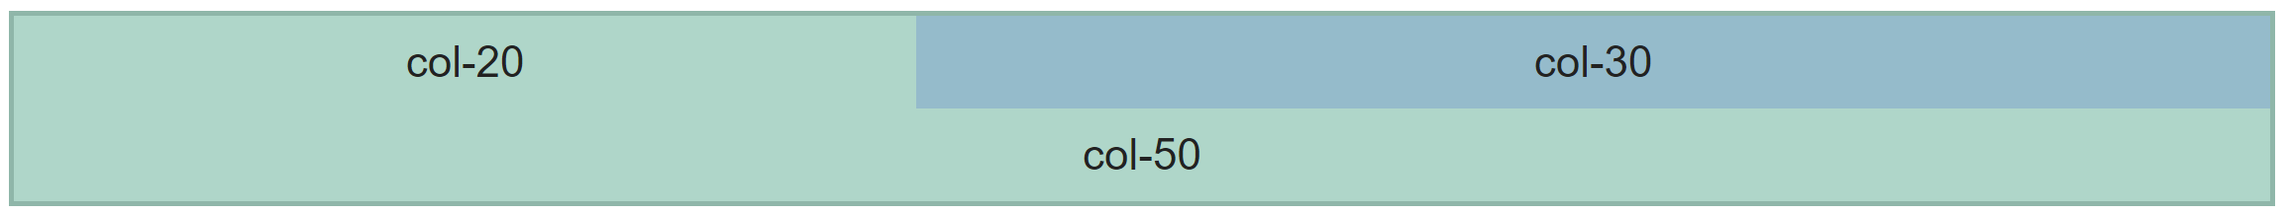
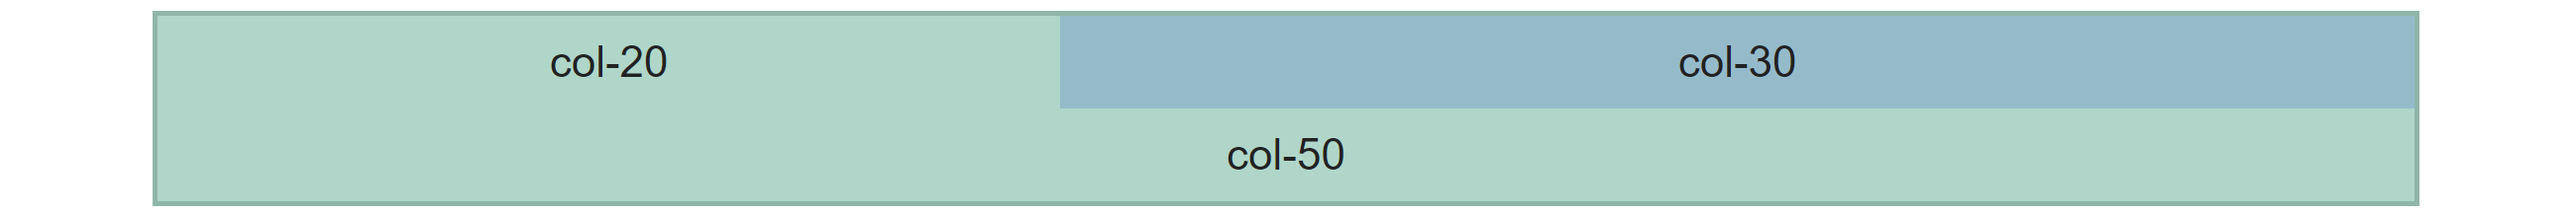
adjust size of demo images and updated readme

diff --git a/README.md b/README.md
@@ -2,12 +2,12 @@
 Extremely lightweight (233 bytes minified and gzip) responsive mobile first grid system. Works in all modern browsers including IE 11.
 
 ## Easy to use
-Place your content inside rows and columns with their width specified 10 percent steps.
+Place your content inside rows and columns with their width specified in 10 percent steps.
 
         <div class="row">
-	  <div class="col col-20"> col-20 </div>
-	  <div class="col col-30"> col-30 </div>
-	  <div class="col col-50"> col-50 </div>
+          <div class="col col-20"> col-20 </div>
+          <div class="col col-30"> col-30 </div>
+          <div class="col col-50"> col-50 </div>
         </div>
 
 ## Responsive
